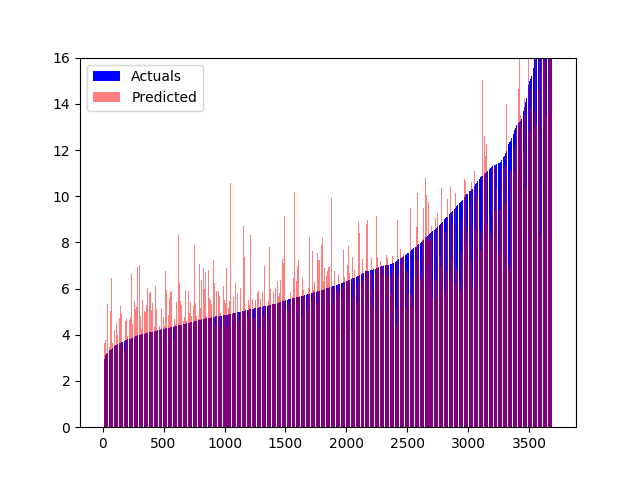
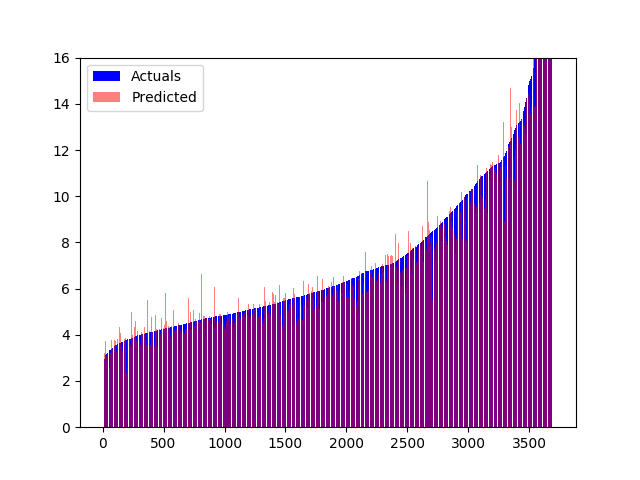
Lower MSE image

Changed region(s): [[0.1562, 0.125, 0.875, 0.75]]

diff --git a/gcn_model/model.py b/gcn_model/model.py
@@ -91,7 +91,7 @@ def main():
 	model = Net(11).to(device)
 	criterion = torch.nn.MSELoss()
 	optimizer = torch.optim.Adam(model.parameters(), lr=3E-4)
-	epoch = 400
+	epoch = 1000
 	print("Starting Training:")
 	print("*"*40)
 	model.train()
